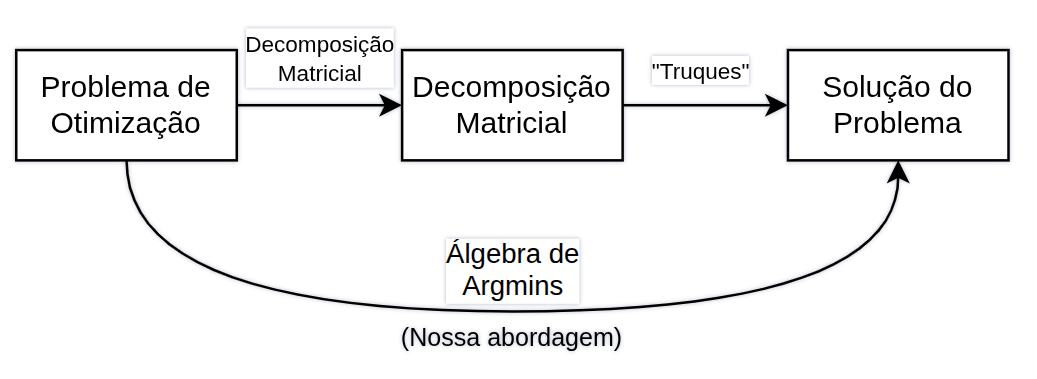
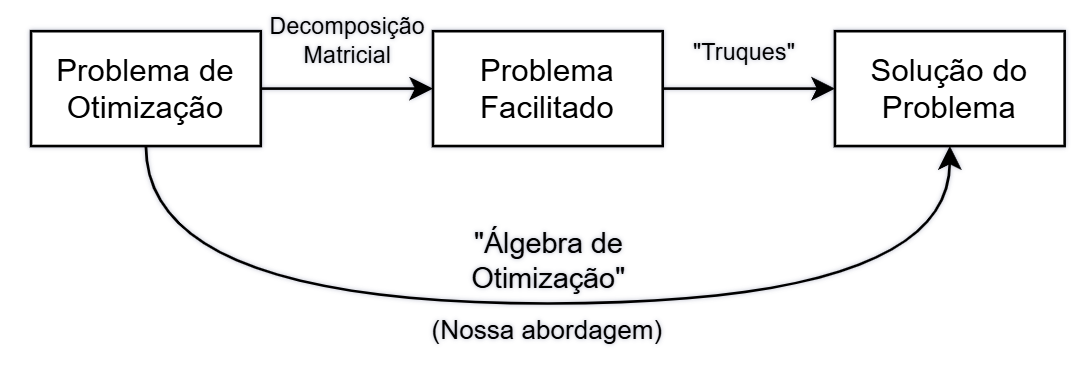
Fix some TODOs

Changed region(s): [[0.0, 0.0295, 0.9875, 0.8257], [0.3703, 0.8552, 0.6172, 0.9437], [0.8332, 0.5308, 0.864, 0.6193]]

diff --git a/slides/part-3/qr-decomp.tex b/slides/part-3/qr-decomp.tex
@@ -1,23 +1,14 @@
 
-\begin{frame}{Problema com $A=QR$}
-  \begin{columns}[t]
+\begin{frame}{Problemas com Introduzir $A = QR$}
+  \begin{itemize}
+    \item Quebra de contexto; \\[0.5cm] \pause
+    \item Diferentes algoritmos; \\[0.5cm] \pause
+    \item Diferentes implementações; \pause
+  \end{itemize}
 
-    \begin{column}{0.55\textwidth}
-      \begin{itemize}
-        \item Qual algoritmo: Gram-Schmidt, Householder ou Givens?\\[0.75cm]
-        \item Qual implementação: clássica ou numericamente estável?\\[0.75cm]
-        \item Geometria: rotações, reflexões ou projeções?\\[0.75cm]
-        \item Prova verificacional de corretude: $Q$ e $R$ são ortogonal e triangular?
-      \end{itemize}
-    \end{column}
+  \vspace{1cm}
 
-    \begin{column}{0.40\textwidth}
-      \vspace{1cm}
-      \begin{itemize}
-        \item De onde vieram esses algoritmos? \\[1.5cm]
-
-        \item Como (Gram 1883) e (Schmidt 1907) pensaram nele?
-      \end{itemize}
-    \end{column}
-  \end{columns}
+  \begin{center}
+    De onde surgiu $A = QR$? Eu só queria resolver um problema de otimização.
+  \end{center}
 \end{frame}

diff --git a/slides/slides.tex b/slides/slides.tex
@@ -1,6 +1,6 @@
 \documentclass{beamer}
 
-\input{outer-crust/header.tex} % colocar tempo de ic no 1° slide e a bolsa
+\input{outer-crust/header.tex}
 
 \begin{document}
 
@@ -8,10 +8,10 @@
 
   \begin{frame}{Sumário}
     \begin{itemize}
-      \item Motivação (Problema da Trilha Tradicional); \\[1cm]
+      \item Motivação (Problema); \\[1cm]
       \item Abordagem (Otimização); \\[1cm]
-      \item Mínimos Quadrados; \\[1cm]
-      \item Otimização Matricial.
+      \item Mínimos Quadrados (Problema 1); \\[1cm]
+      \item Otimização Matricial (Problema 2).
     \end{itemize}
   \end{frame}
 
@@ -23,9 +23,9 @@
     \input{part-2/argmin-decoupled.tex}
 
   \section{Mínimos Quadrados}
-    \input{part-3/first-problem.tex} % change this slide
+    \input{part-3/first-problem.tex}
     \input{part-3/qr-decomp.tex}
-    \input{part-3/multiple-solutions.tex} % change this slide
+    \input{part-3/multiple-solutions.tex}
     \input{part-3/our-solution.tex}
 
   \section{Otimização Matricial}

diff --git a/slides/part-3/multiple-solutions.tex b/slides/part-3/multiple-solutions.tex
@@ -1,24 +1,14 @@
 
-\begin{frame}{Problema com as Soluções Conhecidas}
+\begin{frame}{Nossa Abordagem}
 
-  \begin{block}{Algumas Soluções Conhecidas em Livros Populares Recentes}
-  \begin{itemize}
-
-    \item (Trefethen \& Bau 1997): Geometria -> Desigualdades -> Equações Normais -> $A = QR$ -> Solução; \\[0.5cm]
-
-    \item (Golub \& Van Loan 2013): $A = QR$ -> Álgebra -> Otimização -> Solução; \\[0.5cm]
-
-    \item (Boyd \& Vandenberghe 2018): Otimização -> Cálculo -> Desigualdades -> $A = QR$ -> Solução.
-
-  \end{itemize}
-  \end{block}
-
-  \vfill
-
-  \begin{itemize}
-    \item Todas realizam diversas trocas de contexto; \\[0.5cm]
-
-    \item Todas introduzem $A = QR$ como hipótese.
-  \end{itemize}
+  \begin{figure}
+    \centering
+    \only<1>{
+      \includegraphics[width=12cm]{multiple-paths-OLS-no-blue-red.png}
+    }
+    \only<2>{
+      \includegraphics[width=12cm]{multiple-paths-OLS.png}
+    }
+  \end{figure}
 
 \end{frame}

diff --git a/slides/outer-crust/header.tex b/slides/outer-crust/header.tex
@@ -154,13 +154,13 @@
 
 %->8-------------------------------------------------------------------------------------------8<-%
 \title{Raciocínio Equacional para a Derivação de \\ Algoritmos de Álgebra Linear sob a \\ Perspectiva de Otimização}
-\author{%
+\author{
   \textbf{João Victor Lopez Pereira} \\
   \vspace{0.2cm}
   Daniel Sadoc Menasche \\
   \vspace{0.2cm}
   João Antonio Recio Paixão
 }
-\institute{Instituto de Computação -- UFRJ}
+\institute{Instituto de Computação -- UFRJ \\[0.2cm] Aluno bolsista CNPq-UFRJ \quad | \quad Tempo dedicado: 10 meses}
 \date{Outubro de 2026}
 %->8-------------------------------------------------------------------------------------------8<-%

diff --git a/slides/part-3/first-problem.tex b/slides/part-3/first-problem.tex
@@ -2,7 +2,15 @@
 \begin{frame}{Primeiro Problema: Mínimos Quadrados}
 
   \begin{figure}
-    \includegraphics[width=12cm]{problem-OLS-final.png}
+    \centering
+    \only<1>{
+      \includegraphics[width=12cm]{multiple-paths-OLS-no-blue.png}
+    }
+    \only<2>{
+      \includegraphics[width=12cm]{multiple-paths-OLS-no-blue-red.png}
+    }
   \end{figure}
+  \vspace{-1.5cm}
+  (Trefethen e Bau III, 1997), (Boyd e Vandenberghe, 2018) e (Golub e Van Loan, 2013).
 
 \end{frame}

diff --git a/slides/part-1/the-problem.tex b/slides/part-1/the-problem.tex
@@ -1,11 +1,16 @@
 
-\begin{frame}{Problema da Trilha Tradicional}
+\begin{frame}{Problema}
   \begin{center}
     Troca de contexto frequente (Muitos modi operandi).
   \end{center}
 
   \begin{figure}
-    \includegraphics[width=12cm]{problem-version-2.png}
+    \centering
+    \only<1>{
+      \includegraphics[width=12cm]{problem-version-2-1.png}
+    }
+    \only<2>{
+      \includegraphics[width=12cm]{problem-version-2.png}
+    }
   \end{figure}
-
 \end{frame}

diff --git a/slides/part-3/our-solution.tex b/slides/part-3/our-solution.tex
@@ -3,9 +3,9 @@
   \begin{theorem}[Solução de Mínimos Quadrados]
     Sejam $A \in \mathbb{R}^{m \times n}$ uma matriz e $b \in \mathbb{R}^{m}$ um vetor.
     \[
-      x^{*} \in \argmin{x} \norm{Ax - b}^2
+      x' \in \argmin{x} \norm{Ax - b}^2
       \iff
-      \exists Q, R \st x^{*} = R^{-1} Q\t b
+      \exists Q, R \st x' = R^{-1} Q\t b
     \]
   \end{theorem}
 
